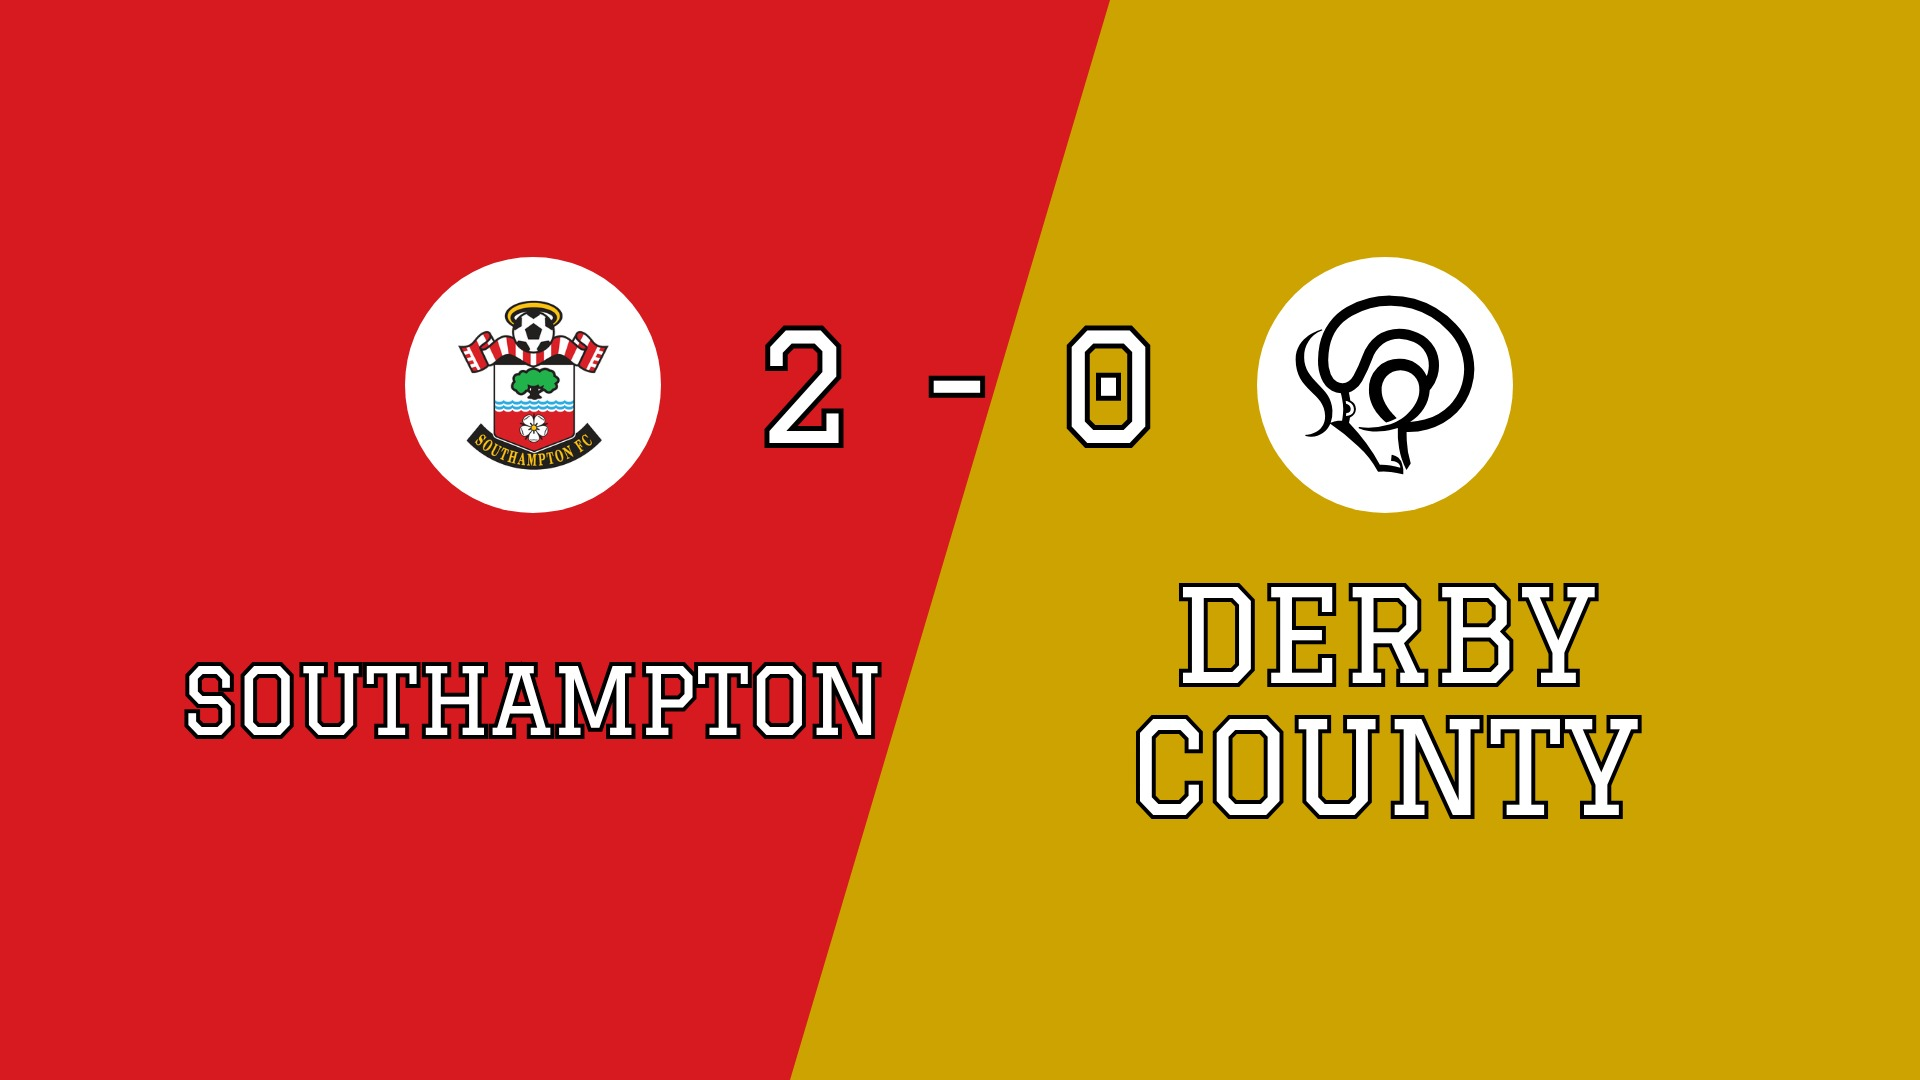
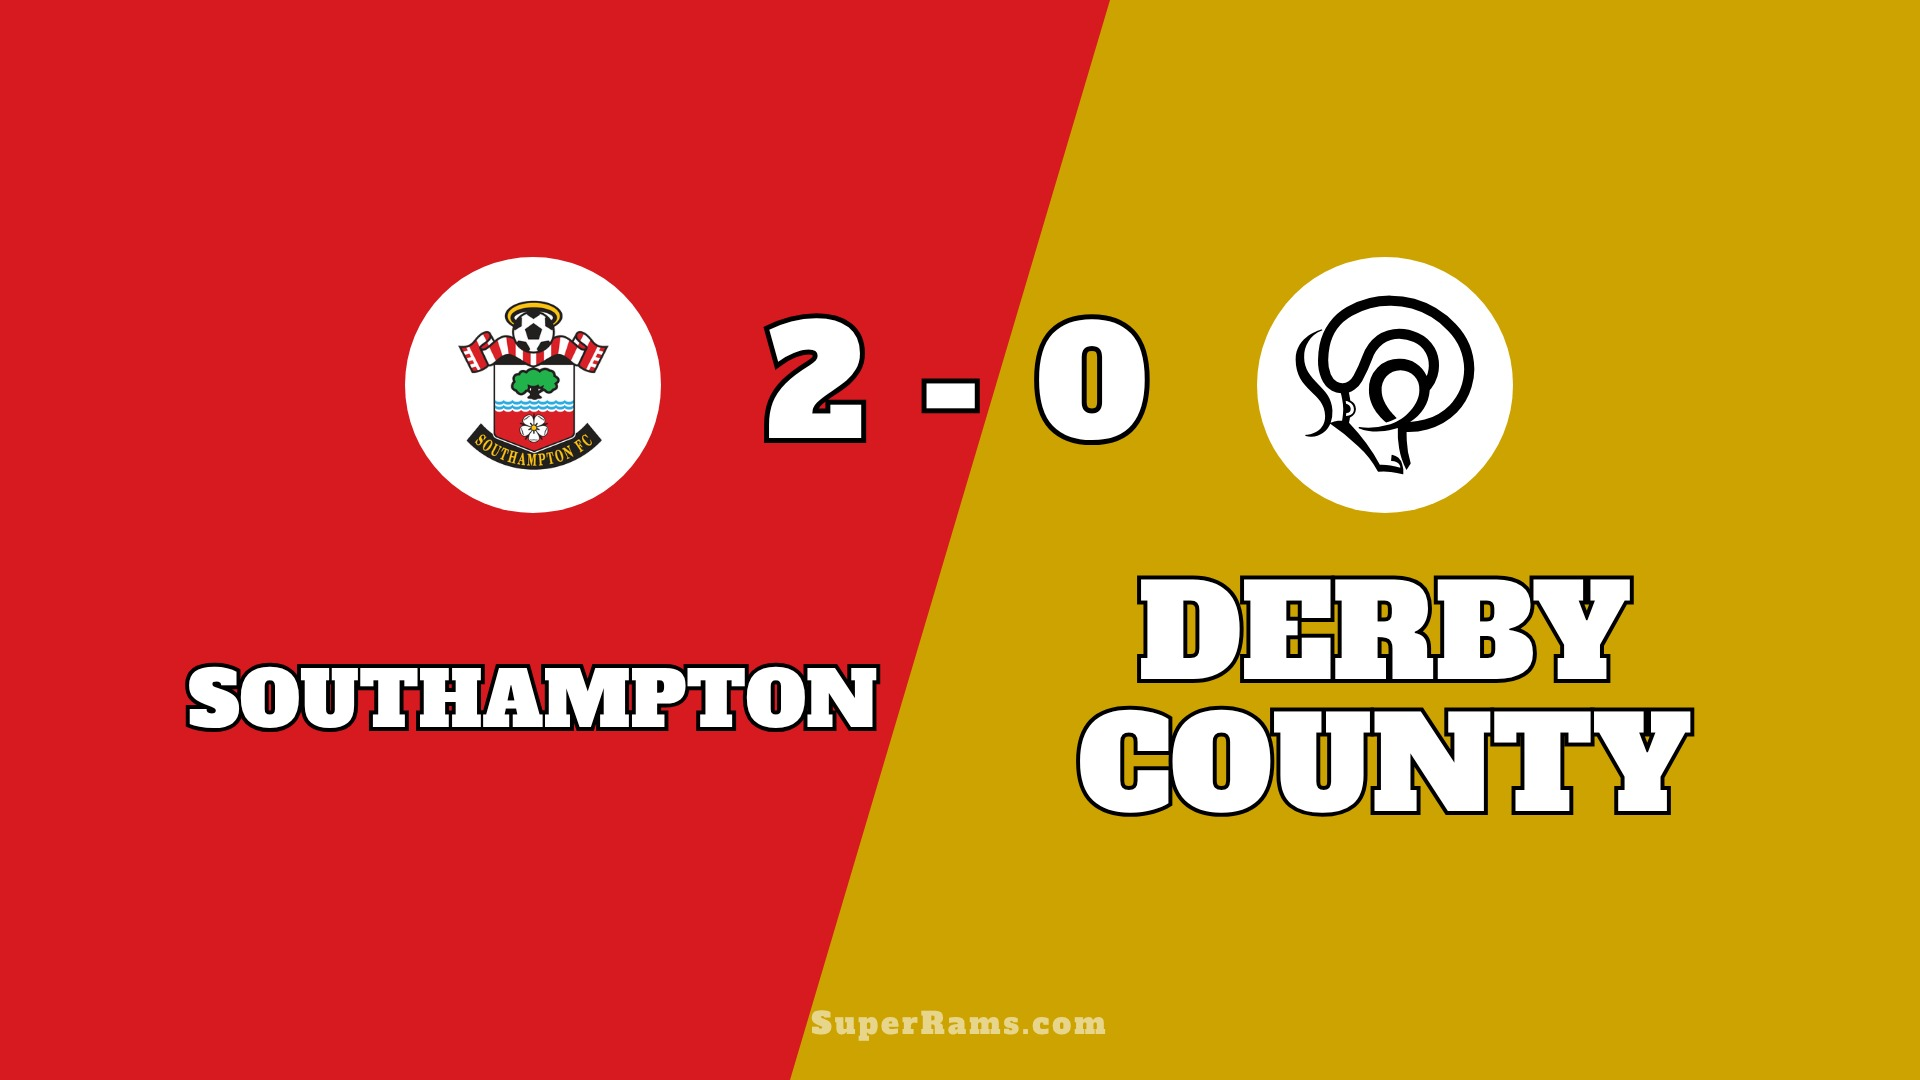
Use Alfa Slab One for covers and add SuperRams.com watermark
Claude-Session: https://claude.ai/code/session_01VHUMkevqgxjGKP8iH8yrNa

diff --git a/tools/cover_image.js b/tools/cover_image.js
@@ -29,7 +29,7 @@ const crest = team => {
 const args = process.argv.slice(2);
 const flag = n => { const i = args.indexOf(n); return i < 0 ? null : args.splice(i, 2)[1]; };
 const homeColour = flag('--home-colour'), awayColour = flag('--away-colour');
-const fontFile = flag('--font') || path.join(DIR, 'fonts', 'graduate.woff2');
+const fontFile = flag('--font') || path.join(DIR, 'fonts', 'alfa-slab-one.woff2');
 const [out, home, away, score] = args;
 if (!score) { console.error('Usage: node tools/cover_image.js out.jpg "Home" "Away" "2 - 0"'); process.exit(1); }
 
@@ -46,10 +46,10 @@ const side = (team, x) => `
   <div class="name" style="left:${x - 360}px">${esc(team)}</div>`;
 
 const html = `<!doctype html><html><head><style>
-@font-face { font-family: Graduate; src: url(${dataUri(fontFile)}); }
+@font-face { font-family: CoverFont; src: url(${dataUri(fontFile)}); }
 * { margin: 0; box-sizing: border-box; }
 body { width: 1920px; height: 1080px; position: relative; overflow: hidden;
-       background: ${colour(away, awayColour)}; font-family: Graduate; color: #fff; }
+       background: ${colour(away, awayColour)}; font-family: CoverFont; color: #fff; }
 .home { position: absolute; inset: 0; background: ${colour(home, homeColour)};
         clip-path: polygon(0 0, 1110px 0, 790px 1080px, 0 1080px); }
 .badge { position: absolute; top: 257px; width: 256px; height: 256px; border-radius: 50%;
@@ -61,10 +61,13 @@ body { width: 1920px; height: 1080px; position: relative; overflow: hidden;
 .name { position: absolute; width: 720px; top: 700px; transform: translateY(-50%);
         text-align: center; font-size: 128px; line-height: 132px; text-transform: uppercase;
         -webkit-text-stroke: 8px #000; paint-order: stroke fill; }
+.mark { position: absolute; left: 0; right: 0; bottom: 36px; text-align: center;
+        font-size: 30px; letter-spacing: 3px; color: rgba(255,255,255,0.55); }
 </style></head><body>
 <div class="home"></div>
 ${side(home, 533)}${side(away, 1385)}
 <div class="score">${esc(score)}</div>
+<div class="mark">SuperRams.com</div>
 </body></html>`;
 
 (async () => {

diff --git a/.claude/skills/patreon-match-post/SKILL.md b/.claude/skills/patreon-match-post/SKILL.md
@@ -180,7 +180,8 @@ plain-text approach the Rotherham example used.
 Generate it with `tools/cover_image.js` (1920x1080 JPG), which recreates
 Si's Canva cover style: diagonal split in each club's spot colour (home
 left, away right), crests in white circles, score in the middle, club names
-underneath in white Graduate (collegiate) type with a black outline.
+underneath in white Alfa Slab One with a black outline, and a subtle
+SuperRams.com watermark bottom centre.
 
 ```
 node tools/cover_image.js posts/assets/<slug>/hero-<slug>.jpg "<Home>" "<Away>" "<h> - <a>"

diff --git a/tools/README.md b/tools/README.md
@@ -82,5 +82,5 @@ posting by hand.
 `node tools/cover_image.js <out.jpg> "<Home>" "<Away>" "<score>"` renders the
 1920x1080 match cover: diagonal split in club spot colours
 (`club_colours.json`), crests in white circles (`crests/`), score and names in
-white Graduate type (`fonts/graduate.woff2`, OFL). Uses the pre-installed
+white Alfa Slab One type (`fonts/alfa-slab-one.woff2`, OFL), with a subtle SuperRams.com watermark bottom centre. Uses the pre-installed
 Playwright/Chromium. `--home-colour` / `--away-colour` override a colour.
